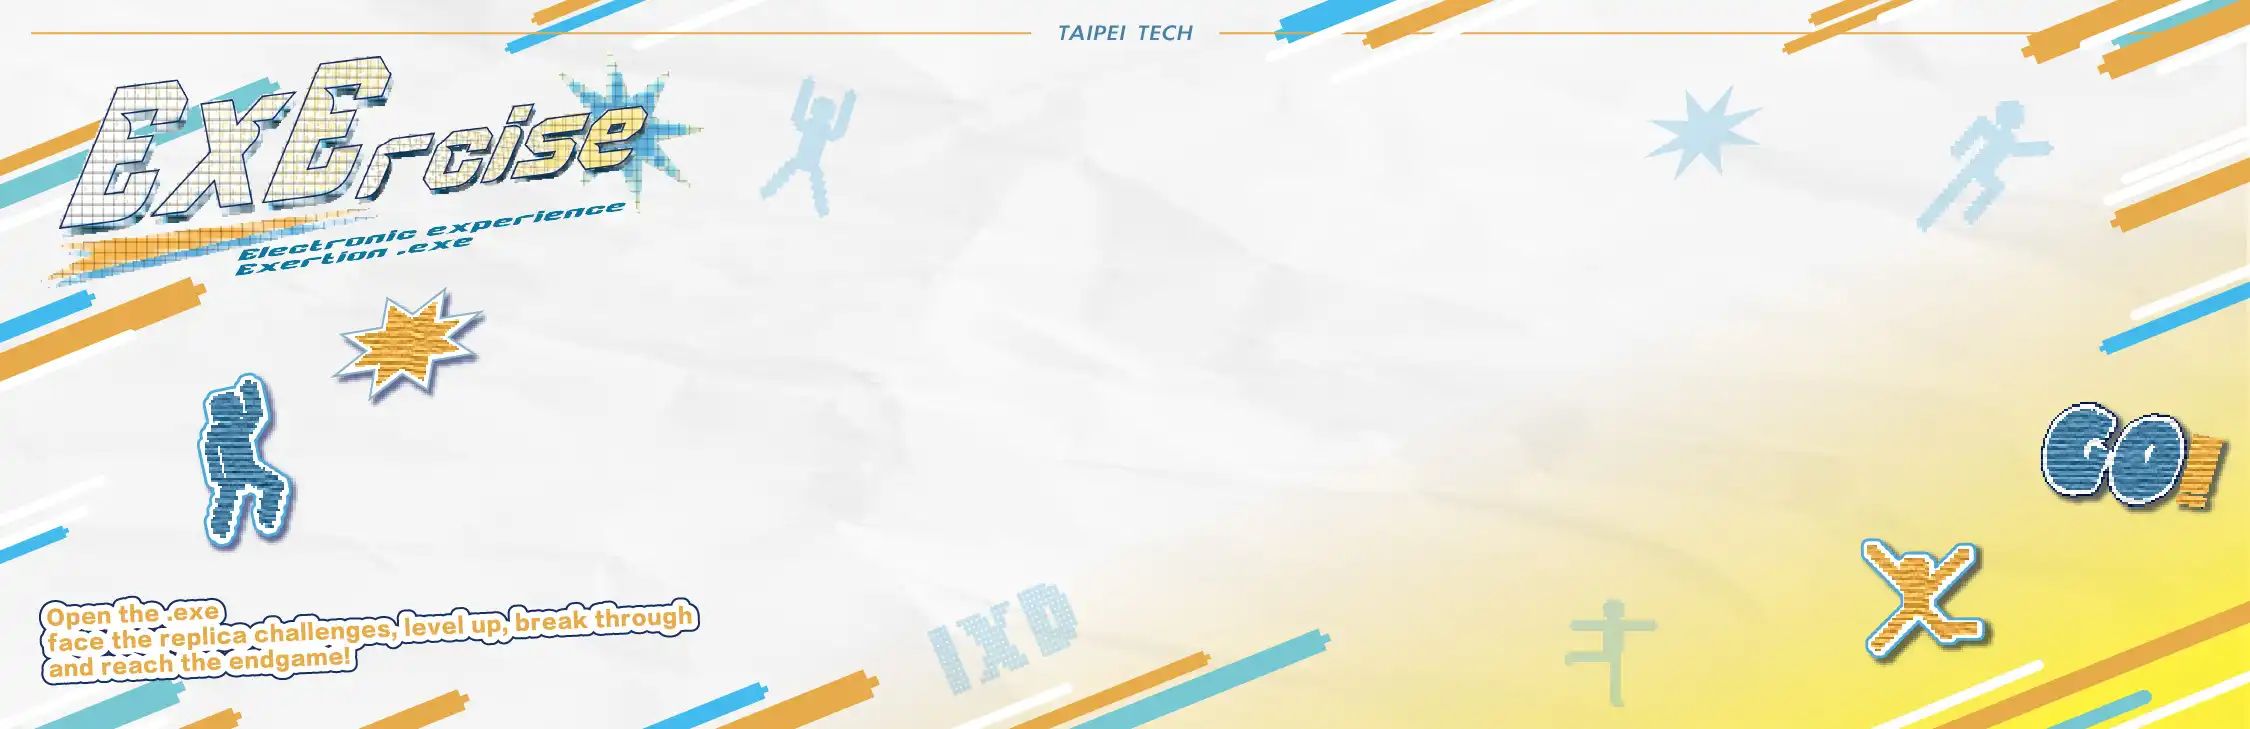
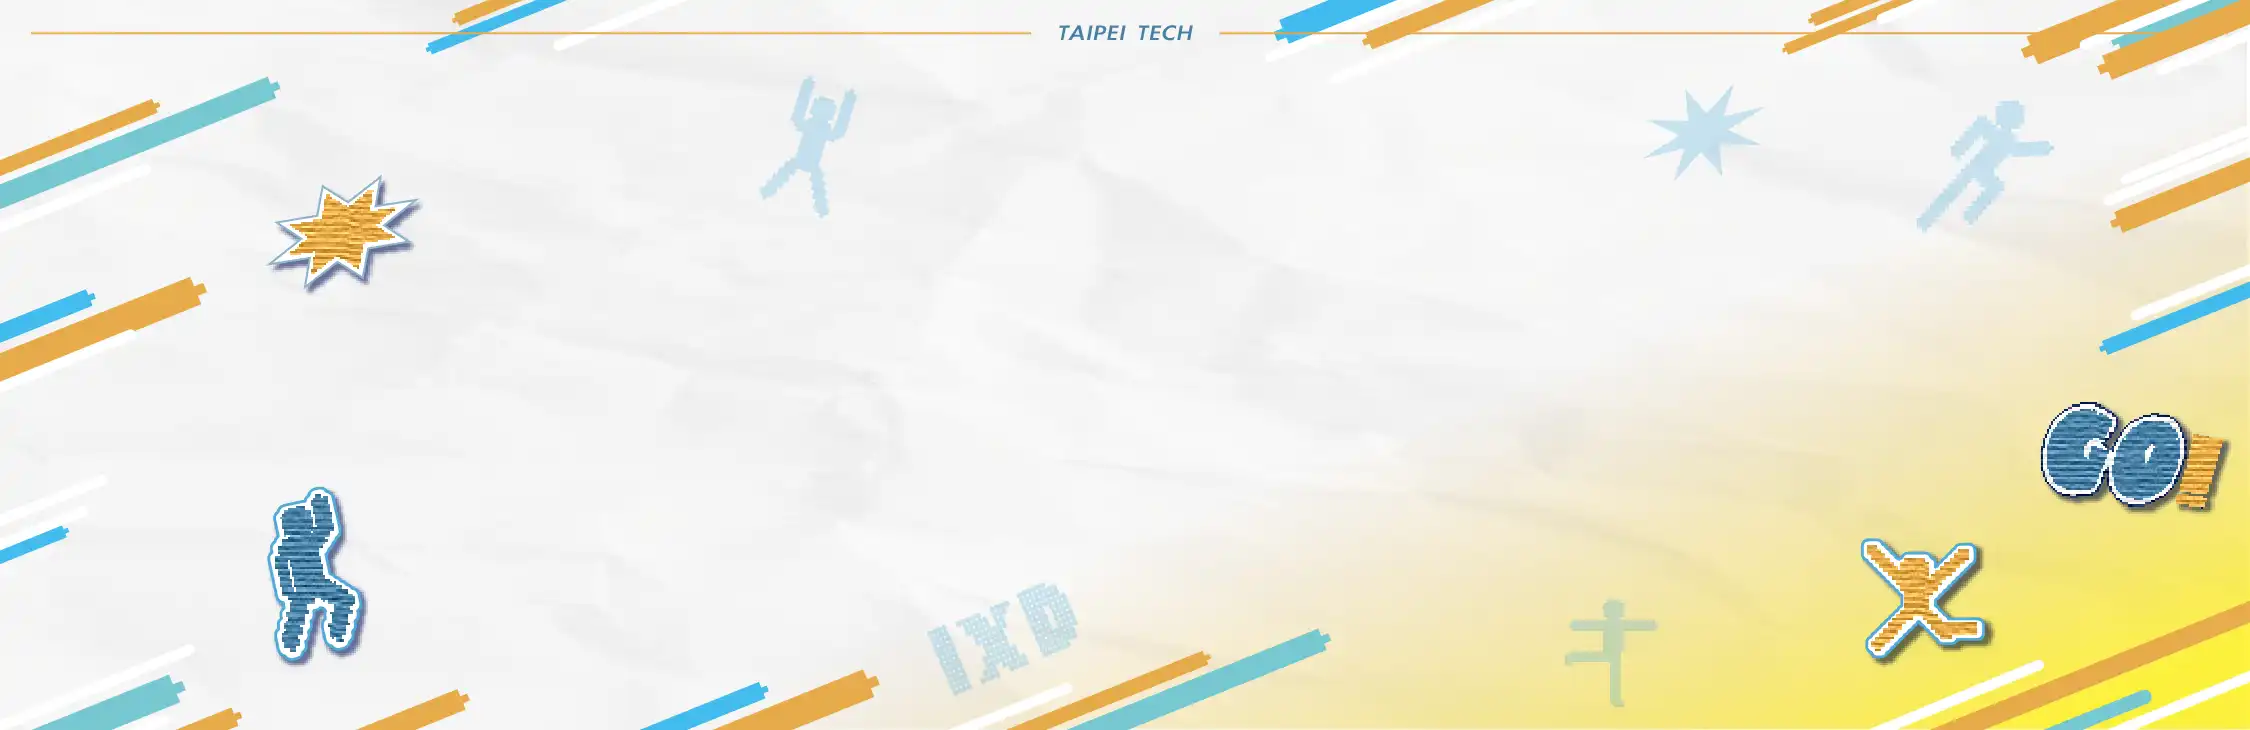
20251215改圖icon

diff --git a/exe/index.html b/exe/index.html
@@ -39,38 +39,24 @@
                 <div class="carousel-track">
                     <div class="carousel-item">
                         <img src="img/76.webp" alt="耐力">
-                        <h3>耐力</h3>
-                        <!-- <p>挑戰極限的體能試煉。</p> -->
                     </div>
                     <div class="carousel-item">
                         <img src="img/71.webp" alt="爆發力">
-                        <h3>爆發力</h3>
-                        <!-- <p>瞬間釋放你的能量。</p> -->
                     </div>
                     <div class="carousel-item">
                         <img src="img/74.webp" alt="反應力">
-                        <h3>反應力</h3>
-                        <!-- <p>電光石火間的決斷。</p> -->
                     </div>
                     <div class="carousel-item">
                         <img src="img/77.webp" alt="專注力">
-                        <h3>專注力</h3>
-                        <!-- <p>心無旁騖，直指目標。</p> -->
                     </div>
                     <div class="carousel-item">
                         <img src="img/75.webp" alt="敏捷力">
-                        <h3>敏捷力</h3>
-                        <!-- <p>敏捷力。</p> -->
                     </div>
                     <div class="carousel-item">
                         <img src="img/73.webp" alt="協調力">
-                        <h3>協調力</h3>
-                        <!-- <p>協調力。</p> -->
                     </div>
                     <div class="carousel-item">
                         <img src="img/72.webp" alt="智力">
-                        <h3>智力</h3>
-                        <!-- <p>智力。</p> -->
                     </div>
                 </div>
             </div>
@@ -206,12 +192,12 @@
                 <button data-sheet="第四組分數計算" class="lb-tab">健美詠者</button>
                 <button data-sheet="第五組分數計算" class="lb-tab">企色戰隊</button>
                 <button data-sheet="第六組分數計算" class="lb-tab">不是．鴿們</button>
-                <button data-sheet="第七組分數計算" class="lb-tab">霸總的白月光</button>
+                <button data-sheet="第七組分數計算" class="lb-tab">老娘不幹了</button>
                 <button data-sheet="第八組分數計算" class="lb-tab">賽馬郎</button>
                 <button data-sheet="第九組分數計算" class="lb-tab">溫水煮青蛙</button>
                 <button data-sheet="第十組分數計算" class="lb-tab">超派派對</button>
                 <button data-sheet="第十一組分數計算" class="lb-tab">翻身</button>
-                <button data-sheet="第十二組分數計算" class="lb-tab">斷線</button>
+                <button data-sheet="第十二組分數計算" class="lb-tab">hurry down</button>
                 <button data-sheet="第十三組分數計算" class="lb-tab">重生之我在神界當牛馬</button>
                 <button data-sheet="第十四組分數計算" class="lb-tab">Baa Hind the Door</button>
                 <button data-sheet="第十五組分數計算" class="lb-tab">Legend of the rower</button>
@@ -246,10 +232,7 @@
                     <div class="group-body">
                         <div class="group-content-inner">
                             <h4>組別介紹</h4>
-                            <p>三隻小豬從畫面外丟出攻擊。每次攻擊前有 雙提示：
-                                <p>1. 方向劃痕（0.5 秒） → 告訴你「揮擊方向」</p>
-                                <p>2. 節奏提示音（Beat Cue） → 告訴你「揮擊時機」</p>
-                                > 玩家需同時記住「方向順序」與「節奏節拍」</p>
+                            <p>《培根行動 Project Bacon》是一款結合 節奏判定 × 動作揮擊 的反應型遊戲，改編自經典童話《三隻小豬》，玩家將扮演大野狼，在混亂又充滿節奏感的攻防中，突破三隻小豬的連續攻擊。</p>
                             <hr>
                             <p>組員 | 陳家蓁、陳孝宣、王政諺、楊依韻</p>
                             <p>指導老師 | 宋兆祥</p>
@@ -318,7 +301,9 @@
                     <div class="group-body">
                         <div class="group-content-inner">
                             <h4>組別介紹</h4>
-                            <p>拔起你的石中劍，打爆邪惡法師梅林，一起甩出汗水💦與肌肉💪‼成為健美詠者吧‼</p>
+                            <p>拔起你的石中劍，打爆邪惡法師梅林，一起甩出汗水💦與肌肉💪‼
+                            <br>
+                            成為健美詠者吧‼</p>
                             <hr>
                             <p>組員 | 陳心愉、賴星妍、洪雅恩、林岱姸</p>
                             <p>指導老師 | 簡明哲</p>
@@ -367,7 +352,7 @@
                     <div class="group-body">
                         <div class="group-content-inner">
                             <h4>組別介紹</h4>
-                            <p>尚未解鎖</p>
+                            <p>「鴿們就靠你了！」 變身諾亞方舟上的鴿子，努力拍動翅膀，小心閃避障礙，在洪水中找到那根代表希望的橄欖枝吧！</p>
                             <hr>
                             <p>組員 | 范諭暄、夏宇柔、楊康媞、時瑋甯</p>
                             <p>指導老師 | 王明道</p>
@@ -384,13 +369,14 @@
                     <span class="group-badge">#7</span>
                     <img src="img/7.webp" alt="隊伍圖片" class="group-img">
                     <div class="group-info">
-                        <h3>霸總的白月光歸來於是身為白月光的我回鄉種田</h3>
+                        <h3>老娘不幹了</h3>
                         <p>爆發力</p>
                     </div>
                     <div class="group-body">
                         <div class="group-content-inner">
                             <h4>組別介紹</h4>
-                            <p>尚未解鎖</p>
+                            <p>在長期被霸總壓迫的職場中，秘書選擇不再忍耐。<br>
+                            本作品以誇張卻熟悉的職場情境為背景，邀請你化身為「決定離職的秘書」，透過丟擲文件的動作，釋放累積已久的壓力。</p>
                             <hr>
                             <p>組員 | 林妤安、蔡珺瑶、趙於萱、鄭儀嘉</p>
                             <p>指導老師 | 宋兆祥</p>
@@ -482,7 +468,8 @@
                     <div class="group-body">
                         <div class="group-content-inner">
                             <h4>組別介紹</h4>
-                            <p>玩家左右兩邊各有兩個按鈕（共四個），按鈕的指示燈將會隨機亮起，玩家需要根據燈亮左手按右邊按鈕、右手按左邊按鈕，按下對應按鈕獲取積分。按一下就是加一分。最終三十秒內按下按鈕次數進行積分，分數較高者排行靠前。</p>
+                            <p>人生的結果是已知的，那要怎麼創造未知的過程<br>
+                            玩家將扮演一隻鹹魚，藉由翻身運動來翻面掙扎，表達自己不甘於現狀的心態</p>
                             <hr>
                             <p>組員 | 張煒茹、柯佩岑、楊書宜、孔奕寧</p>
                             <p>指導老師 | 簡明哲</p>
@@ -499,13 +486,15 @@
                     <span class="group-badge">#12</span>
                     <img src="img/12.webp" alt="隊伍圖片" class="group-img">
                     <div class="group-info">
-                        <h3>斷線</h3>
+                        <h3>hurry down</h3>
                         <p>協調力</p>
                     </div>
                     <div class="group-body">
                         <div class="group-content-inner">
                             <h4>組別介紹</h4>
-                            <p>愛麗絲在逃離紅心皇后的追捕時，意外跌入了神秘的魔法空間！？在這重力與方向全都失序的空間，她必須努力穩住身體，閃避四面而來的危險與追兵。抓緊平衡、勇敢前進，讓愛麗絲逃離紅心皇后的魔掌吧！</p>
+                            <p>愛麗絲在逃離紅心皇后的追捕時，意外跌入了神秘的魔法空間！？<br>
+                            在這重力與方向全都失序的空間，她必須努力穩住身體，閃避四面而來的危險與追兵。<br>
+                            抓緊平衡、勇敢前進，讓愛麗絲逃離紅心皇后的魔掌吧！</p>
                             <hr>
                             <p>組員 | 陳宜靜、李安中、黃智恒、蘇奕菲</p>
                             <p>指導老師 | 宋兆祥</p>
@@ -528,7 +517,10 @@
                     <div class="group-body">
                         <div class="group-content-inner">
                             <h4>組別介紹</h4>
-                            <p>尚未解鎖</p>
+                            <p>自從有爆料新聞「丟普通斧頭就能換金銀斧頭」的風聲後，全國的木匠開始集體往湖裡丟斧頭？？<br>
+                            湖中女神每天的工作變成：撿斧頭、還斧頭、撿斧頭還斧頭無限輪迴⋯<br>
+                            湖裡斧頭堆成山，你還必須一次負責三座湖泊！！工作量只能用爆表來形容💥<br>
+                            當女神把最後一把斧頭遞回去，默默寫下辭呈：「早知道一開始就不幫人撿斧頭了。」</p>
                             <hr>
                             <p>組員 | 蔣易珊、何美玲、呂妍、陳怡亘</p>
                             <p>指導老師 | 宋兆祥</p>
@@ -551,7 +543,8 @@
                     <div class="group-body">
                         <div class="group-content-inner">
                             <h4>組別介紹</h4>
-                            <p>尚未解鎖</p>
+                            <p>面對狡猾的大野狼不斷從四面八方闖入，你必須眼明手快，將牠阻擋在門外！每一次成功守護，都離小羊的安全更近一步🐑🏠<br>
+                            你，能守護到最後嗎？</p>
                             <hr>
                             <p>組員 | 林筱婕、盧佩雲、吳欣祈、吳千佳</p>
                             <p>指導老師 | 宋兆祥</p>
@@ -592,15 +585,14 @@
                     <span class="group-badge">#16</span>
                     <img src="img/16.webp" alt="隊伍圖片" class="group-img">
                     <div class="group-info">
-                        <h3>LEGEND OF MUAY THAI</h3>
+                        <h3>Legend of MUAY THAI</h3>
                         <p>協調力</p>
                     </div>
                     <div class="group-body">
                         <div class="group-content-inner">
                             <h4>組別介紹</h4>
-                            <p>Our project is inspired by the story of the Muay Thai legend Nai Khanom Tom. </p>
-                            <p>Players must coordinate elbow and leg movements to punch the correct buttons in order to defeat the opponent. </p>
-                            <p>Within 30 seconds, the more points the player punches, the higher their ranking will be.</p>
+                            <p>Our project is inspired by the story of the Muay Thai legend Nai Khanom Tom. <br>Players must coordinate elbow and leg movements to punch the correct buttons in order to defeat the opponent. 
+                            <br>Within 30 seconds, the more points the player punches, the higher their ranking will be.</p>
                             <hr>
                             <p>組員 | 丁玉寶珍、Gwynne Purnama、Ratchapakorn Thanwised、Jesslyn Boediono Goenawan、AZZRA RIENOV FAHLIVI</p>
                             <p>指導老師 | 韓秉軒</p>
@@ -652,17 +644,17 @@
     ========================== -->
     <nav class="bottom-nav">
         <button class="nav-btn active" data-view="view-home">
-            <span class="icon">ℹ</span>
+            <img src="img/iii.webp" class="nav-icon" alt="賽事介紹">
             <span class="text">賽事介紹</span>
         </button>
         
         <button class="nav-btn" data-view="view-groups">
-            <span class="icon">👥</span>
+            <img src="img/oio.webp" class="nav-icon" alt="項目">
             <span class="text">項目</span>
         </button>
         
         <button class="nav-btn" data-view="view-leaderboard">
-            <span class="icon">📊</span>
+            <img src="img/ooo.webp" class="nav-icon" alt="排行榜">
             <span class="text">排行榜</span>
         </button>
     </nav>

diff --git a/exe/main.css b/exe/main.css
@@ -167,7 +167,7 @@ h2 {
 
 
 /* =========================================
-   4. 七大項目無限輪播 (Smooth Scrolling)
+   4. 七大項目無限輪播 (純圖片版)
    ========================================= */
 .carousel-container {
     width: 100%;
@@ -180,38 +180,42 @@ h2 {
     -webkit-user-select: none;
 }
 
+/* 🔥 關鍵：這一塊絕對不能動，它負責讓東西橫著排 */
 .carousel-track {
-    display: flex;
-    gap: 15px; /* 卡片間距 */
-    /* ❌ 移除這行 transition，因為我們要用 JS 做連續動畫 */
-    /* transition: transform 0.5s ease-in-out; */
-    
-    /* 確保位置可以用 JS 控制 */
+    display: flex;         /* 讓內容橫向排列 */
+    gap: 20px;             /* 圖片之間的距離 */
     will-change: transform; 
 }
 
+/* 修改這裡：把卡片變成透明、無框 */
 .carousel-item {
     width: 200px;       
     max-width: 70vw;    
     flex-shrink: 0; 
-    background: white;
-    border-radius: 10px;
-    padding: 10px;
-    box-shadow: 0 2px 5px rgba(0,0,0,0.1);
+    
+    /* 🔥 改動 1：背景變透明 */
+    background: transparent; 
+    
+    /* 🔥 改動 2：去掉原本的卡片陰影 */
+    box-shadow: none;
+    
+    /* 🔥 改動 3：去掉內距，讓圖片貼齊邊緣 */
+    padding: 0;
+    
+    /* 去掉容器圓角 (因為沒有背景色了) */
+    border-radius: 0; 
+    
     text-align: center;
 }
 
+/* 修改圖片：把圓角加在圖片上 */
 .carousel-item img {
     width: 100%;
-    height: 120px;
+    height: 250px;
     object-fit: cover;
-    border-radius: 5px;
-    margin-bottom: 10px;
-    pointer-events: none;
+        
 }
 
-.carousel-item h3 { font-size: 1.1rem; margin-bottom: 5px; color: #333; }
-.carousel-item p { font-size: 0.9rem; color: #666; margin: 0; }
 /* =========================================
    5. 賽事細節分頁 (滑動背景 + 不換行版)
    ========================================= */
@@ -907,4 +911,20 @@ body.lock-scroll {
     ::-webkit-scrollbar-thumb:hover {
         background: rgba(0,0,0,0.4);
     }
+}
+/* =========================================
+   自訂底部導覽列 ICON 圖片設定
+   ========================================= */
+
+/* 1. 設定圖片尺寸，確保跟原本 Emoji 一樣大 */
+.nav-icon {
+    width: 40px;   /* 寬度固定 */
+    height: 40px;  /* 高度固定 */
+    
+    margin-bottom: -3px; /* 維持原本的間距 */
+    object-fit: contain; /* 確保圖片比例正確，不會被拉寬或壓扁 */
+    display: block; /* 避免圖片下方產生奇怪的空隙 */
+    
+    /* 讓圖片跟著按鈕一起有過渡動畫 */
+    transition: all 0.3s ease;
 }
